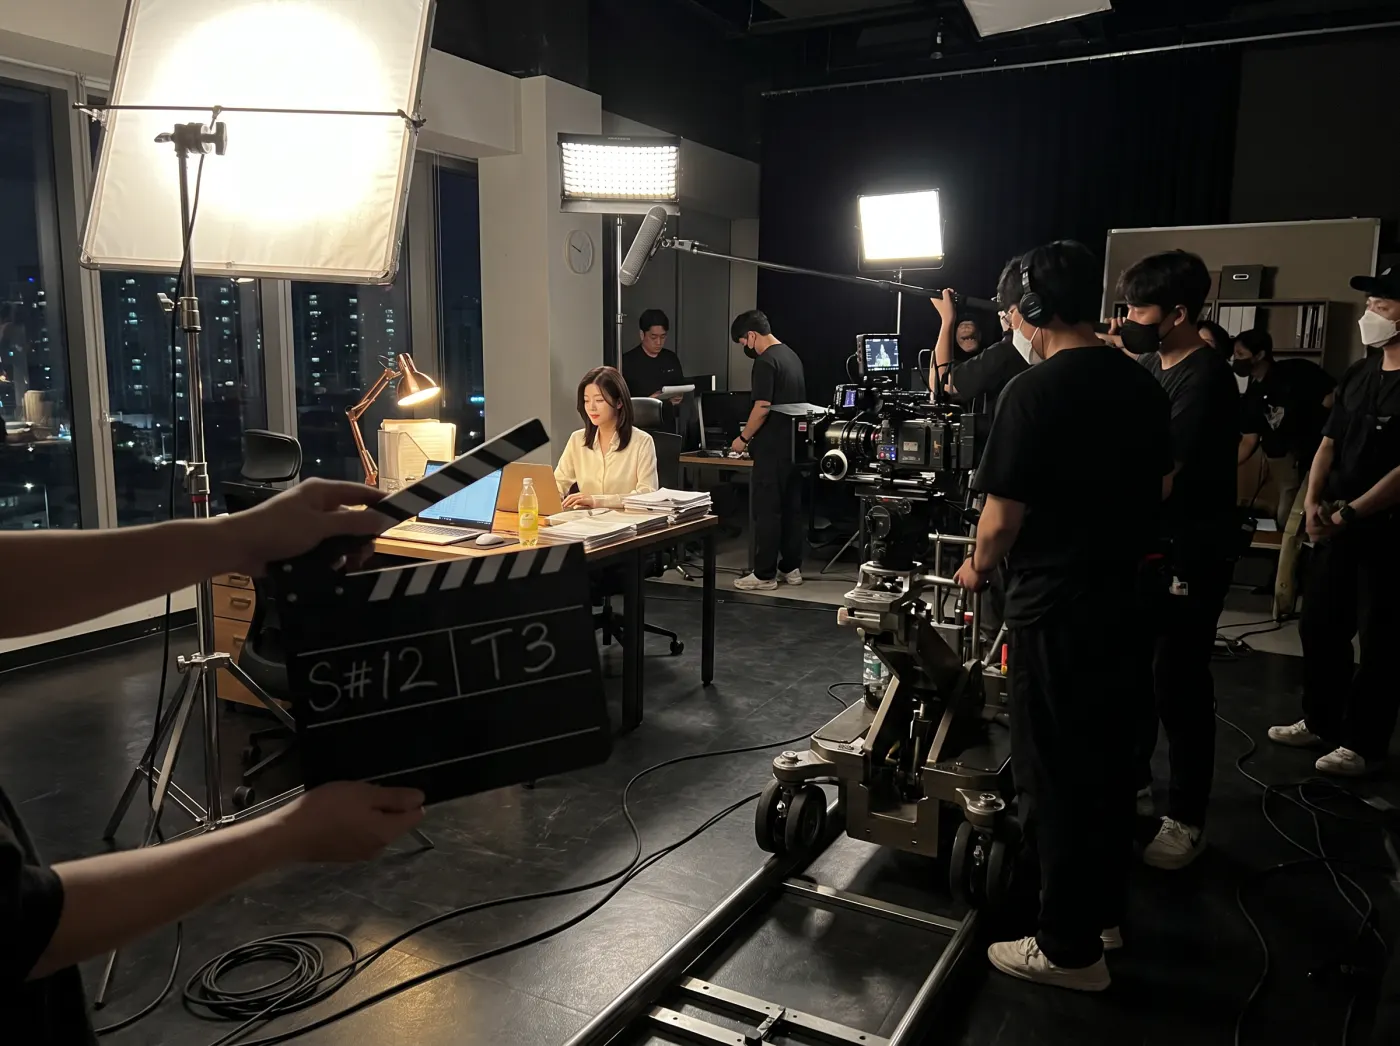
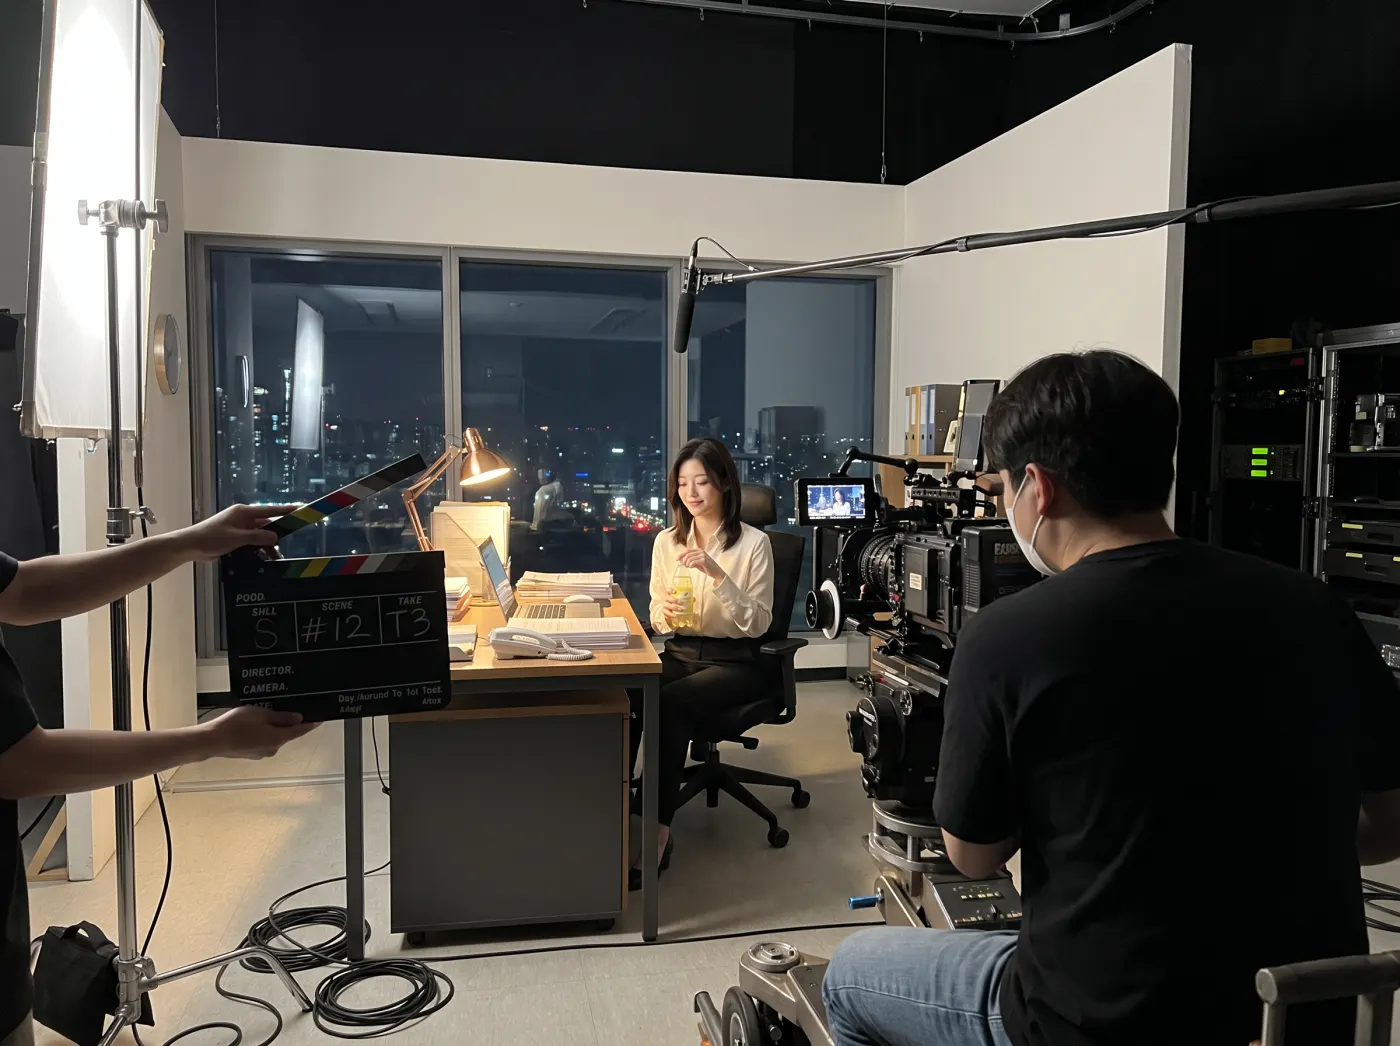
PPL 마케팅 히어로: 촬영 현장·감독 모니터 사진을 드라마 장면과 같은 세트로 다시 만듦(책상·스탠드·노트북·창 방향 일치, set 9176ad07·monitor 2e077936), 모니터 화면 줌인 위치 다시 맞춤

diff --git a/public/static/ppl-onair.js b/public/static/ppl-onair.js
@@ -17,7 +17,7 @@
     ONAIR = [2.85, 3.05], SHRINK = [3.75, 4.25], GRAPH = [4.2, 4.4], LINE = [4.3, 5.2], X = [4.75, 5.4],
     BOARD = [5.3, 5.5], POST_AT = 5.45, POST_GAP = 0.32, OUT = [7.6, 8.0], CYCLE = 8.0;
   // 무대 좌표: 모니터 사진 속 화면 중심·너비(사진 2400x1792 을 680x620 에 꽉 채운 기준), 방송 화면 큰/작은 자리
-  var MON = { x: 357.5, y: 257.5, w: 263 }, ZS = 680 / MON.w;
+  var MON = { x: 372.7, y: 318.0, w: 170.2 }, ZS = 680 / MON.w;
   var BIG = { x: 0, y: 118.5, w: 680, h: 382.5 }, SMALL = { x: 0, y: 0, w: 300, h: 168.75 };
 
   function clamp(x) { return x < 0 ? 0 : x > 1 ? 1 : x; }

diff --git a/src/routes/svc-ppl.tsx b/src/routes/svc-ppl.tsx
@@ -61,7 +61,7 @@ export const SvcPplPage = () => (
         </div>
       </div>
       <PplOnAir />
-      <script src="/static/ppl-onair.js?v=20261021b" defer></script>
+      <script src="/static/ppl-onair.js?v=20261021c" defer></script>
       <div class="vh-scroll-hint"><div class="vh-scroll-mouse"><div class="vh-scroll-wheel"></div></div></div>
       <script dangerouslySetInnerHTML={{ __html: `
 (function(){
